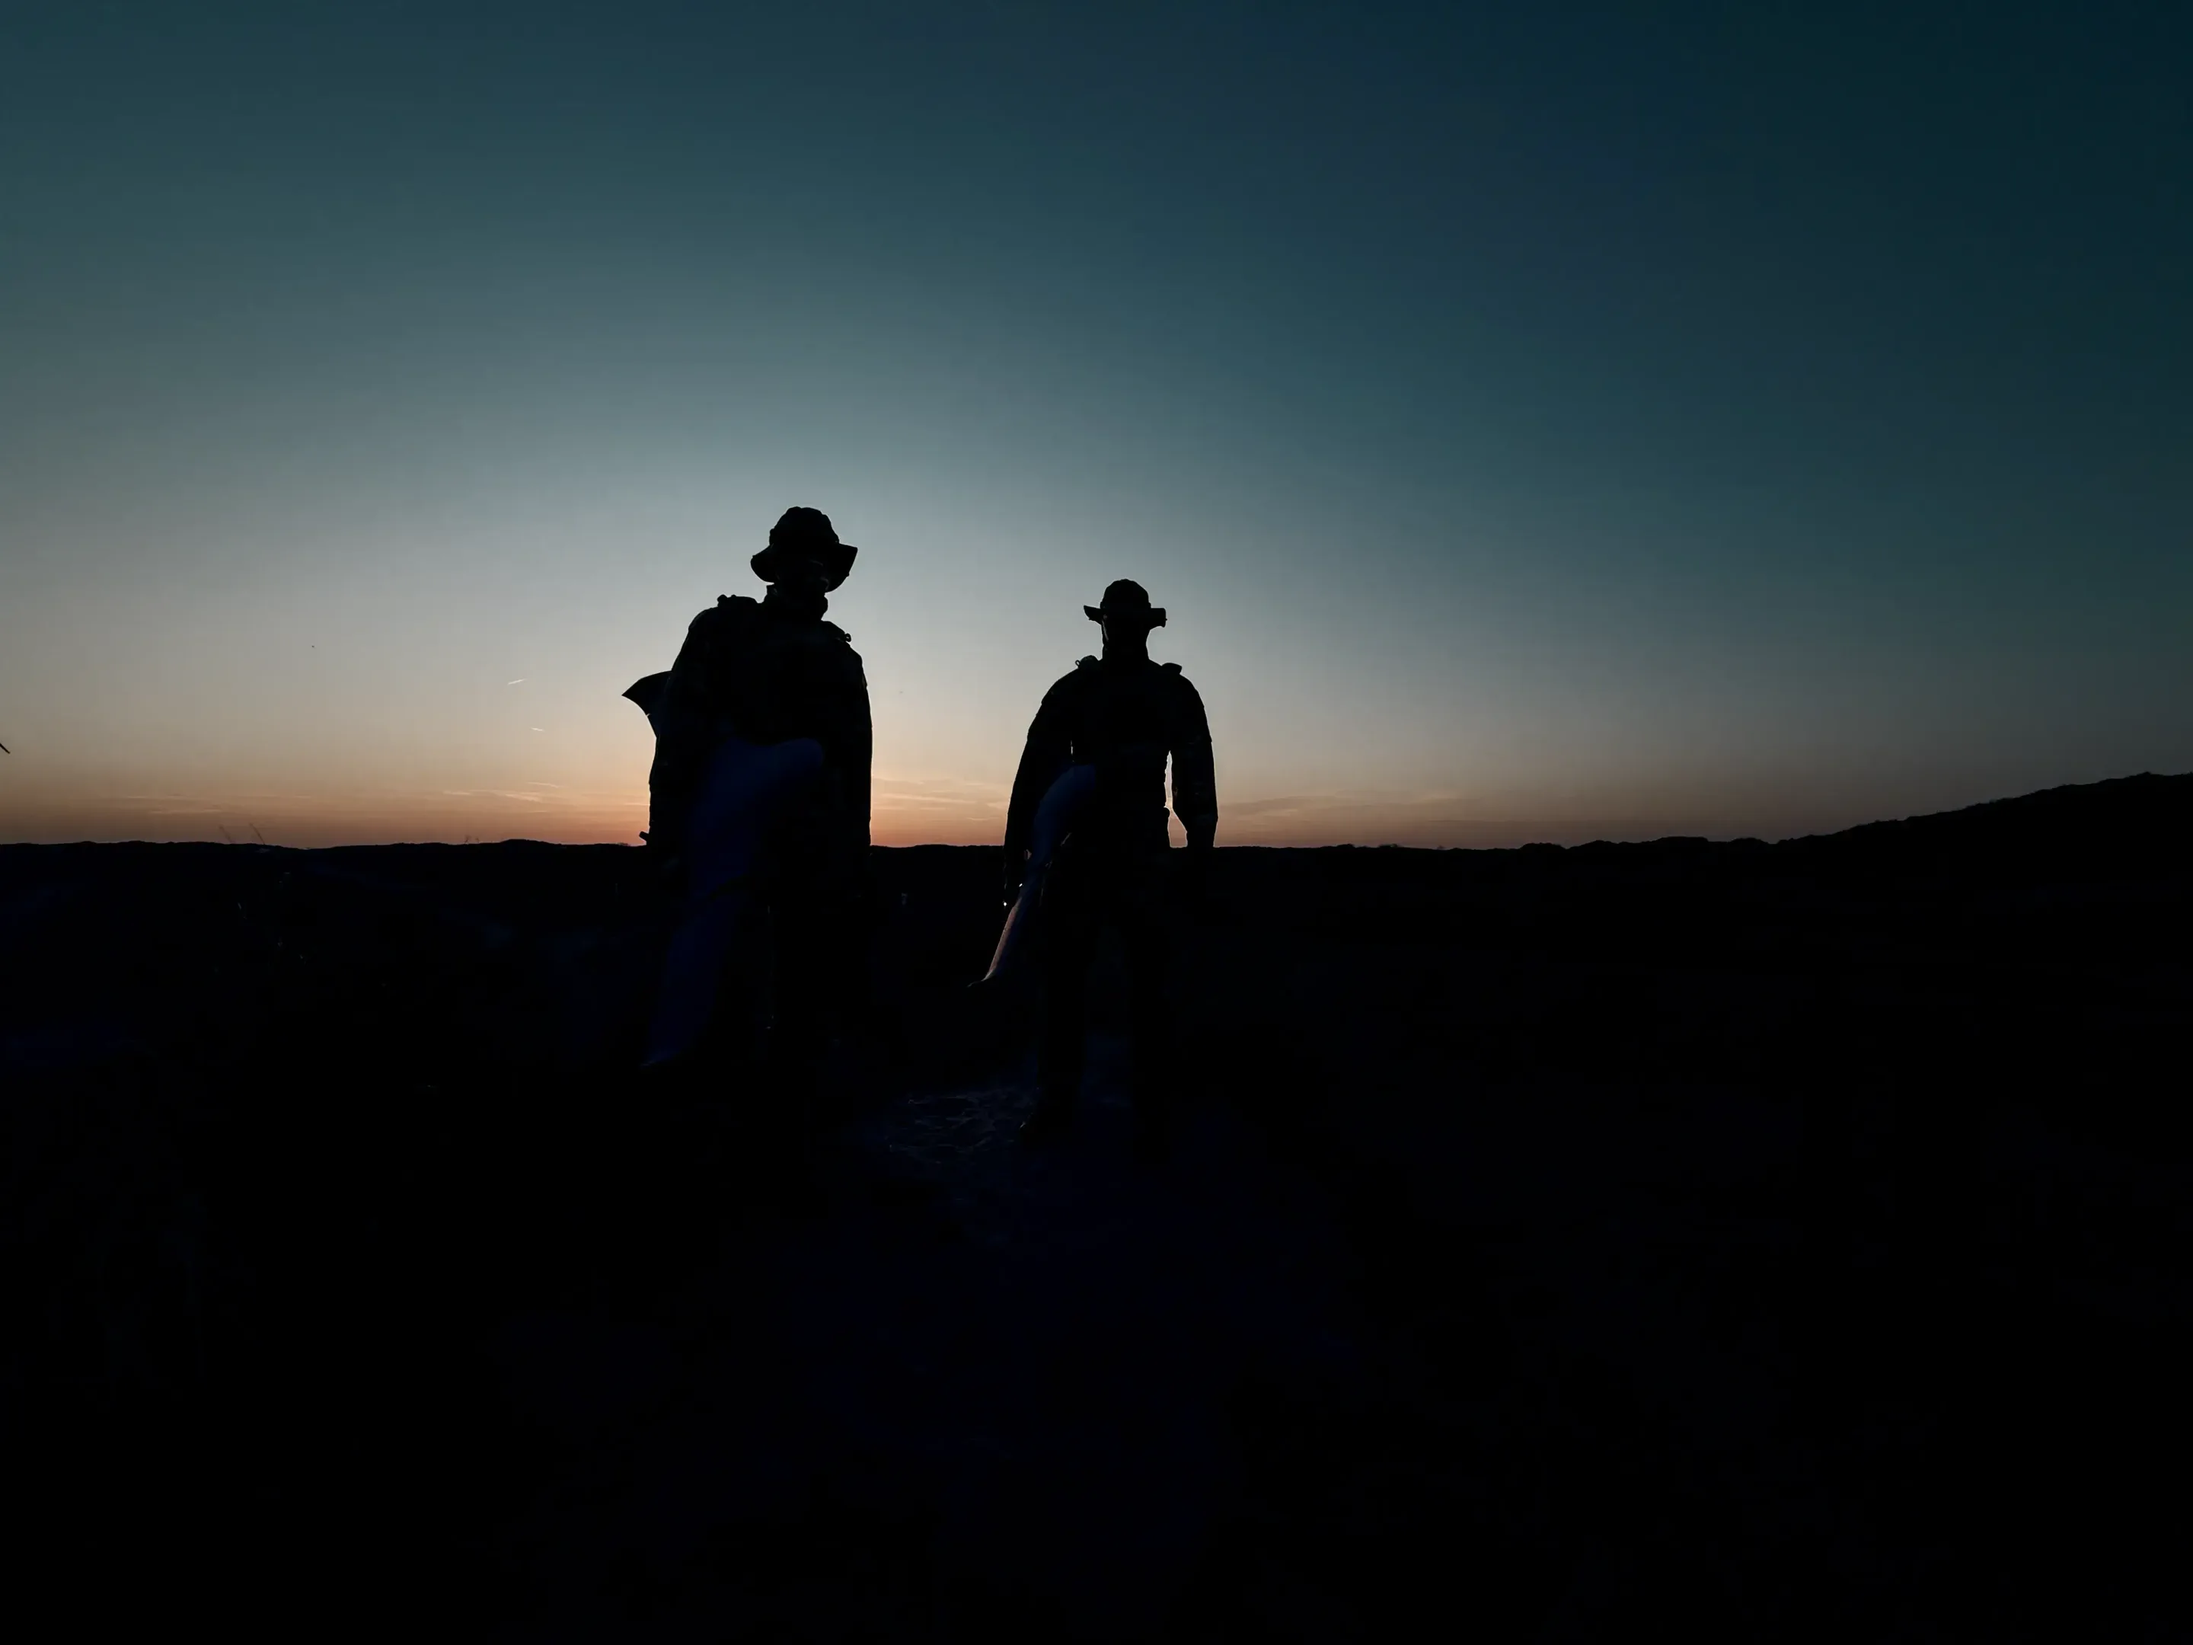
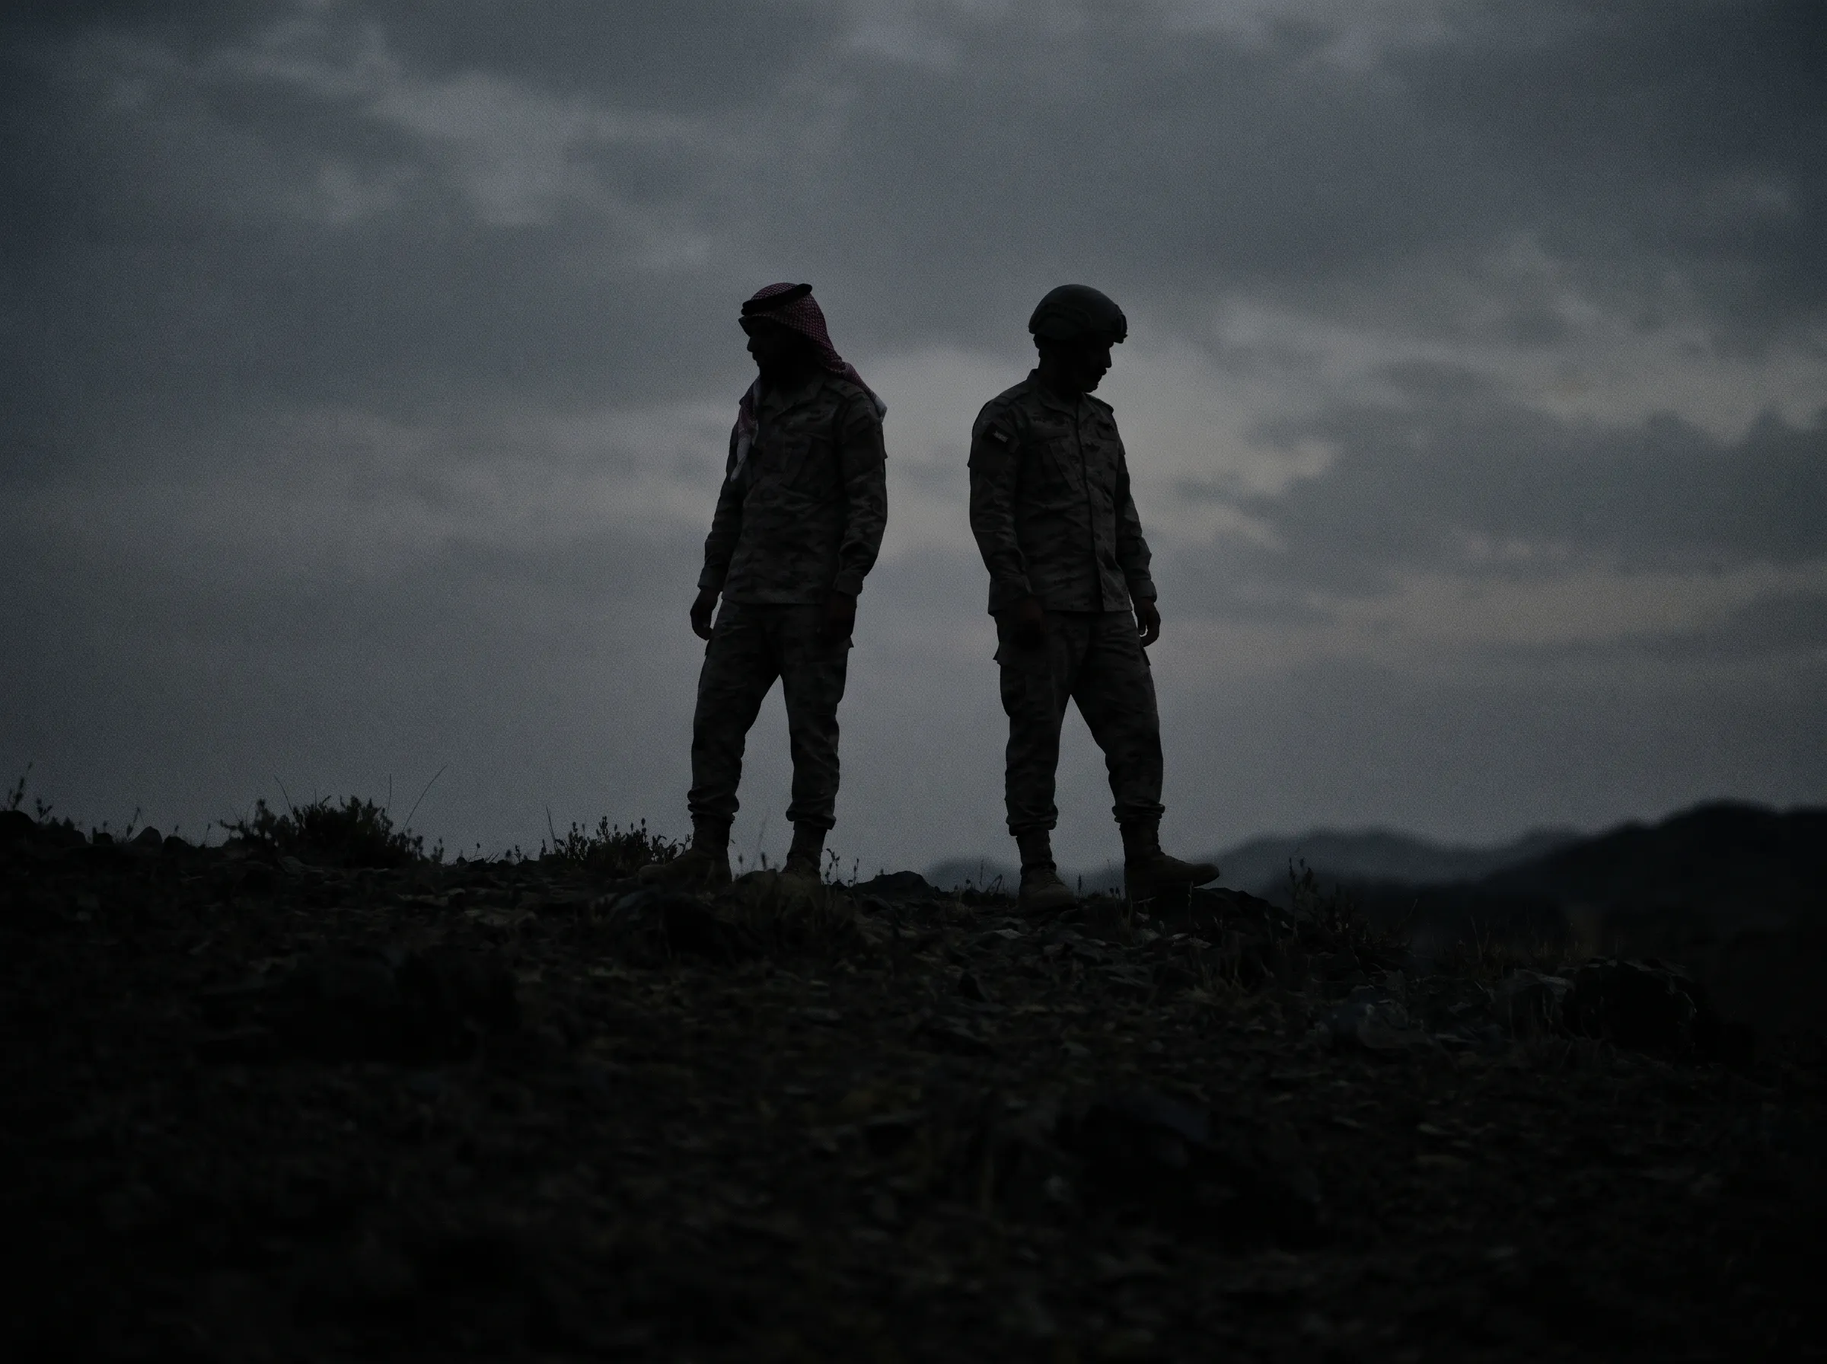
Suhail: Gulf-set generated imagery and animated sector overlays
Replace all remaining Intelic photography with Higgsfield Cinema Studio 2.5
images composed after the originals (Gulf forces, Kuwaiti desert, energy
sites). Add SVG command-and-control animations over the sector renders:
counter-drone intercept, energy-site protective dome with patrol drones
and jamming, and coastal vessel tracking.

Claude-Session: https://claude.ai/code/session_01YK5LfMGK8LpYz2LsovBTEB

diff --git a/clones/intelic/src/components/sites/intelic/mission-hud.tsx b/clones/intelic/src/components/sites/intelic/mission-hud.tsx
@@ -1,0 +1,191 @@
+/**
+ * Animated command-and-control overlay drawn over each sector render.
+ * Coordinates use a 1440x810 viewBox that is cropped like the background (cover), and every loop
+ * lasts one tab cycle (10.5s) so it restarts when the tab changes.
+ */
+const CYCLE = "10.5s";
+
+function Tag({ x, y, children, color = "#9fe3ff" }: { x: number; y: number; children: string; color?: string }) {
+  return (
+    <text x={x} y={y} fill={color} className="ic-hud__tag">
+      {children}
+    </text>
+  );
+}
+
+function Pulse({ cx, cy, r, color, begin = "0s" }: { cx: number; cy: number; r: number; color: string; begin?: string }) {
+  return (
+    <circle cx={cx} cy={cy} r={r} fill="none" stroke={color} strokeWidth="1.2">
+      <animate attributeName="r" values={`${r};${r * 3}`} dur="2.4s" begin={begin} repeatCount="indefinite" />
+      <animate attributeName="opacity" values="0.9;0" dur="2.4s" begin={begin} repeatCount="indefinite" />
+    </circle>
+  );
+}
+
+function Defense() {
+  // Radar on the ridge, hostile inbound from the upper right, interceptor launched mid-cycle.
+  const radar = { x: 1120, y: 420 };
+  const hit = { x: 1040, y: 230 };
+  return (
+    <>
+      <g>
+        <circle cx={radar.x} cy={radar.y} r="7" fill="#5fd4ff" />
+        <circle cx={radar.x} cy={radar.y} r="150" fill="none" stroke="rgba(95,212,255,.25)" strokeDasharray="3 6" />
+        <circle cx={radar.x} cy={radar.y} r="260" fill="none" stroke="rgba(95,212,255,.15)" strokeDasharray="3 6" />
+        <path d={`M${radar.x} ${radar.y} L${radar.x} ${radar.y - 260} A260 260 0 0 1 ${radar.x + 150} ${radar.y - 212} Z`} fill="url(#ic-sweep)">
+          <animateTransform attributeName="transform" type="rotate" from={`0 ${radar.x} ${radar.y}`} to={`360 ${radar.x} ${radar.y}`} dur="3.5s" repeatCount="indefinite" />
+        </path>
+        <Pulse cx={radar.x} cy={radar.y} r={10} color="#5fd4ff" />
+        <Tag x={radar.x + 16} y={radar.y + 26}>C-UAS RADAR</Tag>
+      </g>
+
+      {/* hostile track */}
+      <g>
+        <path id="ic-hostile-path" d={`M1500 90 C1330 120 1180 170 ${hit.x} ${hit.y}`} fill="none" stroke="rgba(255,90,90,.35)" strokeDasharray="4 6" />
+        <g>
+          <circle r="14" fill="none" stroke="#ff5a5a" strokeWidth="1.5" />
+          <circle r="3.5" fill="#ff5a5a" />
+          <animateMotion dur={CYCLE} repeatCount="indefinite" keyPoints="0;1;1" keyTimes="0;0.6;1" calcMode="linear">
+            <mpath href="#ic-hostile-path" />
+          </animateMotion>
+          <animate attributeName="opacity" values="1;1;0;0" keyTimes="0;0.6;0.62;1" dur={CYCLE} repeatCount="indefinite" />
+        </g>
+        <Tag x={1250} y={108} color="#ff8a8a">HOSTILE UAS · TRACK 04</Tag>
+      </g>
+
+      {/* track line radar -> target */}
+      <line x1={radar.x} y1={radar.y} x2={hit.x} y2={hit.y} stroke="rgba(95,212,255,.5)" strokeDasharray="2 5">
+        <animate attributeName="opacity" values="0;0;1;1;0;0" keyTimes="0;0.25;0.3;0.6;0.65;1" dur={CYCLE} repeatCount="indefinite" />
+      </line>
+
+      {/* interceptor */}
+      <g>
+        <path id="ic-intercept-path" d={`M${radar.x} ${radar.y} Q${radar.x - 10} ${hit.y + 60} ${hit.x} ${hit.y}`} fill="none" />
+        <g>
+          <circle r="4" fill="#9fe3ff" />
+          <circle r="10" fill="none" stroke="#9fe3ff" />
+          <animateMotion dur={CYCLE} repeatCount="indefinite" keyPoints="0;0;1;1" keyTimes="0;0.38;0.6;1" calcMode="linear">
+            <mpath href="#ic-intercept-path" />
+          </animateMotion>
+          <animate attributeName="opacity" values="0;0;1;1;0;0" keyTimes="0;0.37;0.38;0.6;0.61;1" dur={CYCLE} repeatCount="indefinite" />
+        </g>
+      </g>
+
+      {/* impact */}
+      <circle cx={hit.x} cy={hit.y} r="6" fill="none" stroke="#fff" strokeWidth="2">
+        <animate attributeName="r" values="6;6;70;70" keyTimes="0;0.6;0.75;1" dur={CYCLE} repeatCount="indefinite" />
+        <animate attributeName="opacity" values="0;0;1;0;0" keyTimes="0;0.6;0.61;0.75;1" dur={CYCLE} repeatCount="indefinite" />
+      </circle>
+      <g opacity="0">
+        <animate attributeName="opacity" values="0;0;1;1;0" keyTimes="0;0.62;0.65;0.95;1" dur={CYCLE} repeatCount="indefinite" />
+        <Tag x={hit.x + 22} y={hit.y - 14}>THREAT NEUTRALIZED</Tag>
+      </g>
+    </>
+  );
+}
+
+function Energy() {
+  // Aligned to the dome and patrol ring already in the render: drones orbit the ring and a hostile
+  // drone is jammed when it reaches the dome edge.
+  const c = { x: 720, y: 545 };
+  const dome = `M${c.x - 505} ${c.y} A505 400 0 0 1 ${c.x + 505} ${c.y}`;
+  return (
+    <>
+      <ellipse id="ic-orbit" cx={c.x} cy="302" rx="592" ry="68" fill="none" stroke="rgba(95,212,255,.35)" strokeDasharray="3 7" />
+      <path d={dome} fill="none" stroke="#5fd4ff" strokeWidth="1.2" strokeDasharray="6 8" opacity=".55">
+        <animate attributeName="stroke-dashoffset" from="0" to="-140" dur="3s" repeatCount="indefinite" />
+      </path>
+      <path d={dome} fill="url(#ic-dome)" stroke="#9fe3ff" strokeWidth="3" opacity="0">
+        <animate attributeName="opacity" values="0;0;0.95;0;0" keyTimes="0;0.55;0.58;0.78;1" dur={CYCLE} repeatCount="indefinite" />
+      </path>
+      <Tag x={c.x + 120} y={c.y + 40}>PROTECTED ENERGY SITE</Tag>
+
+      {[0, 0.33, 0.66].map((offset) => (
+        <g key={offset}>
+          <circle r="11" fill="none" stroke="#5fd4ff" strokeWidth="1.4" />
+          <circle r="3" fill="#5fd4ff" />
+          <animateMotion dur="12s" repeatCount="indefinite" begin={`-${offset * 12}s`}>
+            <mpath href="#ic-orbit" />
+          </animateMotion>
+        </g>
+      ))}
+
+      <path id="ic-energy-hostile" d="M1520 90 C1400 120 1300 160 1180 245" fill="none" stroke="rgba(255,90,90,.35)" strokeDasharray="4 6" />
+      <g>
+        <circle r="13" fill="none" stroke="#ff5a5a" strokeWidth="1.5" />
+        <circle r="3.5" fill="#ff5a5a" />
+        <animateMotion dur={CYCLE} repeatCount="indefinite" keyPoints="0;1;1" keyTimes="0;0.56;1" calcMode="linear">
+          <mpath href="#ic-energy-hostile" />
+        </animateMotion>
+        <animate attributeName="opacity" values="1;1;0.2;0;0" keyTimes="0;0.56;0.62;0.66;1" dur={CYCLE} repeatCount="indefinite" />
+      </g>
+      <circle cx="1180" cy="245" r="6" fill="none" stroke="#ff8a8a" strokeWidth="2">
+        <animate attributeName="r" values="6;6;50;50" keyTimes="0;0.56;0.7;1" dur={CYCLE} repeatCount="indefinite" />
+        <animate attributeName="opacity" values="0;0;1;0;0" keyTimes="0;0.56;0.57;0.7;1" dur={CYCLE} repeatCount="indefinite" />
+      </circle>
+      <g opacity="0">
+        <animate attributeName="opacity" values="0;0;1;1;0" keyTimes="0;0.58;0.6;0.95;1" dur={CYCLE} repeatCount="indefinite" />
+        <Tag x={1200} y={228} color="#ff8a8a">UAS JAMMED · LINK LOST</Tag>
+      </g>
+    </>
+  );
+}
+
+function Security() {
+  // Coastal sensor sweeping a sector; two vessels approach and get tracked.
+  const s = { x: 900, y: 560 };
+  return (
+    <>
+      <path d={`M${s.x} ${s.y} L${s.x + 520} ${s.y - 300} A600 600 0 0 1 ${s.x + 590} ${s.y - 60} Z`} fill="rgba(95,212,255,.06)" stroke="rgba(95,212,255,.3)" strokeDasharray="3 6" />
+      <line x1={s.x} y1={s.y} x2={s.x + 560} y2={s.y - 250} stroke="#5fd4ff" strokeWidth="1.5" opacity=".8">
+        <animateTransform attributeName="transform" type="rotate" values={`0 ${s.x} ${s.y};24 ${s.x} ${s.y};0 ${s.x} ${s.y}`} dur="4s" repeatCount="indefinite" />
+      </line>
+      <circle cx={s.x} cy={s.y} r="6" fill="#5fd4ff" />
+      <Pulse cx={s.x} cy={s.y} r={10} color="#5fd4ff" />
+      <Tag x={s.x - 150} y={s.y + 28}>COASTAL SENSOR 2</Tag>
+
+      {[
+        { id: "ic-boat-a", d: "M1500 320 C1420 340 1360 360 1290 390", tag: "VESSEL 11", tx: 1130, ty: 372 },
+        { id: "ic-boat-b", d: "M1500 470 C1430 470 1380 480 1320 500", tag: "VESSEL 12", tx: 1160, ty: 530 },
+      ].map((b, i) => (
+        <g key={b.id}>
+          <path id={b.id} d={b.d} fill="none" stroke="rgba(255,90,90,.3)" strokeDasharray="4 6" />
+          <g>
+            <circle r="14" fill="none" stroke="#ff5a5a" strokeWidth="1.5" />
+            <circle r="3.5" fill="#ff5a5a" />
+            <animateMotion dur={CYCLE} begin={`${i * 0.6}s`} repeatCount="indefinite" keyPoints="0;1;1" keyTimes="0;0.8;1" calcMode="linear">
+              <mpath href={`#${b.id}`} />
+            </animateMotion>
+          </g>
+          <line x1={s.x} y1={s.y} x2={b.tx + 150} y2={b.ty + (i ? -30 : 18)} stroke="rgba(95,212,255,.45)" strokeDasharray="2 5">
+            <animate attributeName="opacity" values="0;0;1;1" keyTimes="0;0.3;0.35;1" dur={CYCLE} repeatCount="indefinite" />
+          </line>
+          <g opacity="0">
+            <animate attributeName="opacity" values="0;0;1;1" keyTimes="0;0.35;0.4;1" dur={CYCLE} repeatCount="indefinite" />
+            <Tag x={b.tx} y={b.ty} color="#ff8a8a">{`${b.tag} · TRACKED`}</Tag>
+          </g>
+        </g>
+      ))}
+    </>
+  );
+}
+
+export function MissionHud({ kind }: { kind: "defense" | "energy" | "security" }) {
+  return (
+    <svg className="ic-hud" viewBox="0 0 1440 810" preserveAspectRatio="xMidYMid slice" aria-hidden="true">
+      <defs>
+        <radialGradient id="ic-sweep" cx="0" cy="1" r="1">
+          <stop offset="0" stopColor="rgba(95,212,255,.0)" />
+          <stop offset="1" stopColor="rgba(95,212,255,.28)" />
+        </radialGradient>
+        <linearGradient id="ic-dome" x1="0" y1="0" x2="0" y2="1">
+          <stop offset="0" stopColor="rgba(95,212,255,.16)" />
+          <stop offset="1" stopColor="rgba(95,212,255,.02)" />
+        </linearGradient>
+      </defs>
+      {kind === "defense" && <Defense />}
+      {kind === "energy" && <Energy />}
+      {kind === "security" && <Security />}
+    </svg>
+  );
+}

diff --git a/clones/intelic/src/components/sites/intelic/sections.tsx b/clones/intelic/src/components/sites/intelic/sections.tsx
@@ -30,7 +30,7 @@ export function Hero() {
             </div>
             <div className="ic-hero__panel">
               <div className="ic-hero__card">
-                <img src={`${A}/img/card-nexus.webp`} alt="An operator holds an unmanned aircraft overhead" />
+                <img src={`${A}/img/card-nexus.webp`} alt="A Gulf soldier launches a fixed-wing reconnaissance drone near a refinery" />
                 <div className="ic-hero__card-text">
                   <h2 className="ic-h-card">Defense programs</h2>
                   <p className="ic-body">
@@ -43,7 +43,7 @@ export function Hero() {
                 </div>
               </div>
               <div className="ic-hero__card ic-hero__card--rev">
-                <img src={`${A}/img/card-base.webp`} alt="A team preparing equipment in the field" />
+                <img src={`${A}/img/card-base.webp`} alt="An engineer checks a solar array beside battery storage in the desert" />
                 <div className="ic-hero__card-text">
                   <h2 className="ic-h-card">Energy &amp; infrastructure</h2>
                   <p className="ic-body">
@@ -69,7 +69,7 @@ export function Challenge() {
       <img
         className="ic-challenge__bg"
         src={`${A}/img/challenge-silhouettes.webp`}
-        alt="Two silhouetted figures stand against a dusk sky"
+        alt="Two soldiers silhouetted on a desert ridge at dusk"
         loading="lazy"
       />
       <div className="ic-wrap">
@@ -113,7 +113,7 @@ export function MeetNexus() {
           </div>
           <div className="ic-bento">
             <a href={links.sectors} className="ic-bento__card ic-bento__card--features ic-bento__a">
-              <img src={`${A}/img/bento-features.webp`} alt="Command software on three stacked screens" loading="lazy" />
+              <img src={`${A}/img/bento-features.webp`} alt="Command software on three rugged tablets" loading="lazy" />
               <h4>Explore capabilities</h4>
             </a>
             <div className="ic-bento__card ic-bento__b">
@@ -131,7 +131,7 @@ export function MeetNexus() {
               </p>
             </div>
             <a href={links.contact} className="ic-bento__card ic-bento__d">
-              <img src={`${A}/img/bento-partner.webp`} alt="Technician assembling an unmanned aircraft" loading="lazy" />
+              <img src={`${A}/img/bento-partner.webp`} alt="A technician assembles a fixed-wing drone from its field case" loading="lazy" />
               <h4>Partner with us</h4>
             </a>
           </div>
@@ -158,7 +158,7 @@ export function About() {
       <img
         className="ic-about__bg"
         src={`${A}/img/about-europe.webp`}
-        alt="A vehicle drives along a rocky plain under a wide sky"
+        alt="A patrol vehicle drives along the Gulf coast under a wide sky"
         loading="lazy"
       />
       <div className="ic-wrap">

diff --git a/clones/intelic/src/components/sites/intelic/data.ts b/clones/intelic/src/components/sites/intelic/data.ts
@@ -23,7 +23,7 @@ export const sectors = [
     tagline: "Unmanned, sensing and command systems for modern forces",
     f01: "Defense program management",
     img: `${A}/img/mission-screen.webp`,
-    alt: "A digital rendering of unmanned systems coordinating over mountainous terrain",
+    alt: "A visualization of drones and radar tracking a hostile drone over desert terrain",
     nav: `${A}/img/nav-screen.webp`,
     href: links.defense,
   },
@@ -34,7 +34,7 @@ export const sectors = [
     tagline: "Resilient power and storage for critical and remote sites",
     f01: "Energy systems integration",
     img: `${A}/img/mission-supply.webp`,
-    alt: "A digital rendering of autonomous logistics routes across terrain",
+    alt: "A desert solar and gas site under a protective sensor dome with patrol drones",
     nav: `${A}/img/nav-supply.webp`,
     href: links.energy,
   },
@@ -45,7 +45,7 @@ export const sectors = [
     tagline: "Protection for borders, ports and critical infrastructure",
     f01: "Site security integration",
     img: `${A}/img/mission-attack.webp`,
-    alt: "A dark landscape with grid overlays marking monitored zones",
+    alt: "A coastal port at night with sensors tracking approaching vessels",
     nav: `${A}/img/nav-attack.webp`,
     href: links.security,
   },

diff --git a/clones/intelic/src/components/sites/intelic/missions.tsx b/clones/intelic/src/components/sites/intelic/missions.tsx
@@ -2,6 +2,7 @@
 
 import { useEffect, useState } from "react";
 import { featureDesc, features, sectors as missions } from "./data";
+import { MissionHud } from "./mission-hud";
 import { Chevron, SplitText, useInView } from "./motion";
 
 // Measured on the source: the active bar fills over ~10.5s, then the next tab takes over.
@@ -43,6 +44,7 @@ export function Missions() {
           loading="lazy"
         />
       ))}
+      <MissionHud key={m.key} kind={m.key} />
       <div className="ic-missions__inner">
         <div className="ic-tabs" role="tablist">
           {missions.map((x, i) => (

diff --git a/clones/intelic/src/components/sites/intelic/intelic.css b/clones/intelic/src/components/sites/intelic/intelic.css
@@ -723,6 +723,26 @@
   background: linear-gradient(180deg, var(--ic-bg), rgba(32, 34, 37, 0));
   pointer-events: none;
 }
+.ic-hud {
+  position: absolute;
+  inset: 0;
+  width: 100%;
+  height: 100%;
+  z-index: 1;
+  pointer-events: none;
+  animation: ic-hud-in 0.8s var(--ic-ease) both;
+}
+@keyframes ic-hud-in {
+  from {
+    opacity: 0;
+  }
+}
+.ic-hud__tag {
+  font-family: "DM Mono", ui-monospace, monospace;
+  font-weight: 500;
+  font-size: 12px;
+  letter-spacing: 0.04em;
+}
 .ic-missions__inner {
   position: relative;
   z-index: 2;
